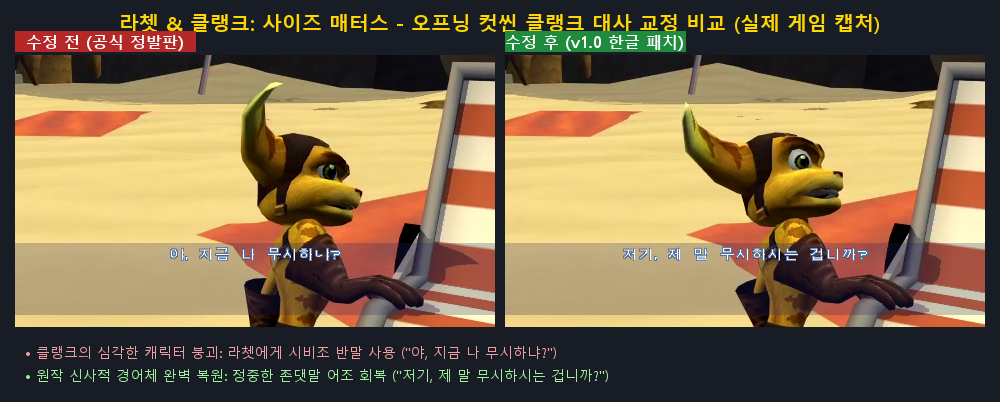
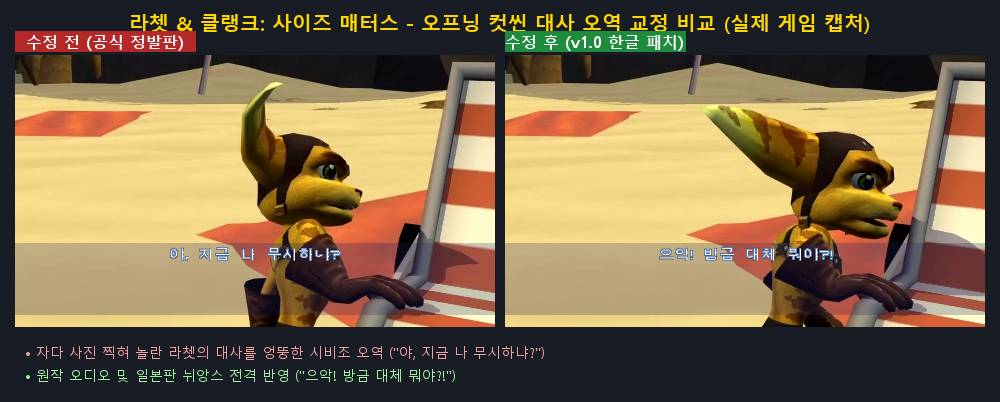
fix(script): reflect Japanese nuance for line 5005 and apply comprehensive cutscene dialogue fixes

Changed region(s): [[0.62, 0.2388, 0.992, 0.8358], [0.124, 0.0299, 0.899, 0.0896], [0.031, 0.8657, 0.62, 0.9552]]

diff --git a/scripts/update_translation_patches.py b/scripts/update_translation_patches.py
@@ -11,8 +11,8 @@ NEW_PATCHES = [
         "file": "localdat",
         "id": 5005,
         "original": "야, 지금 나 무시하냐?",
-        "patched": "저기, 제 말 무시하시는 겁니까?",
-        "reason": "클랭크 신사적 경어체 복원 (라쳇에게 시비조 반말 -> 정중한 존댓말)",
+        "patched": "으악! 방금 대체 뭐야?!",
+        "reason": "화자 오해 및 오역 교정 (라쳇이 자다 사진 찍혀 놀라는 장면 'うわっ！ なんだよ いまの！？' / 'What'd ya do that for?!' 반영)",
         "category": "tier3_dialogue_voice"
     },
     {
@@ -59,7 +59,7 @@ NEW_PATCHES = [
         "file": "localdat",
         "id": 5080,
         "original": "좋도록 해. 늙어 죽기 전까진 끝내라구!",
-        "patched": "마음대로 해. 늙어 죽기 전엔 끝내라구!",
+        "patched": "좋을 대로 해. 늙어 죽기 전까진 끝내라구!",
         "reason": "'Be my guest' 오역 '좋도록 해' 교정",
         "category": "tier3_dialogue_voice"
     },
@@ -102,6 +102,14 @@ NEW_PATCHES = [
         "patched": "Faux-Family.com? 뭔가 수상하지 않나요?",
         "reason": "클랭크 존댓말 회복",
         "category": "tier3_dialogue_voice"
+    },
+    {
+        "file": "localdat",
+        "id": 5123,
+        "original": "자, 이것도 받아. 스키드 맥마라라는 녀석에게 이겨서 받은 거야. 너무 미끄러워서 나는 못 쓰겠어.",
+        "patched": "자, 이것도 받아. 스키드 맥막스라는 녀석에게 이겨서 받은 거야. 너무 미끄러워서 나는 못 쓰겠어.",
+        "reason": "'스키드 맥마라' -> '스키드 맥막스(Skidd McMarx)' 고유 캐릭터명 오류 교정",
+        "category": "tier3_dialogue_typo"
     },
     {
         "file": "localdat",
@@ -179,8 +187,8 @@ NEW_PATCHES = [
         "file": "localdat",
         "id": 5175,
         "original": "아니에요. 감사합니다.",
-        "patched": "아뇨, 사양하겠습니다.",
-        "reason": "제안 거절 'No thanks' 오역 교정",
+        "patched": "좋습니다, 감사히 받겠습니다.",
+        "reason": "수락 표현 'Don't mind if I do!' (일어: いいっすよ。 いただくっす。)의 거절 반대 오역 교정",
         "category": "tier3_dialogue_voice"
     },
     {
@@ -249,6 +257,22 @@ NEW_PATCHES = [
     },
     {
         "file": "localdat",
+        "id": 5251,
+        "original": "오토가 한 가지를 간과했군.\n네가 없으면 나도 힘을 못 쓴다는 사실을.",
+        "patched": "오토가 한 가지를 간과했군.\n저 가짜들은 등 뒤에 클랭크가 없잖아!",
+        "reason": "게임의 핵심 파트너십 테마 복원 (클론들은 등 뒤에 클랭크가 없다는 라쳇의 명대사 복원)",
+        "category": "tier3_dialogue_voice"
+    },
+    {
+        "file": "localdat",
+        "id": 5252,
+        "original": "사실이지!",
+        "patched": "바로 그겁니다!",
+        "reason": "클랭크의 맞장구 대사 ('Indeed they don't!' / 'その とおりっす！') 복원",
+        "category": "tier3_dialogue_voice"
+    },
+    {
+        "file": "localdat",
         "id": 5265,
         "original": "쿼크의 진짜 부모님은 따로 계셨어. 스크런치 말로는 테크노마이트의 고장난 장비 때문에 돌아가셨대.",
         "patched": "쿼크의 진짜 부모님은 따로 계셨어. 스크런치 말로는 테크노마이트의 고장 난 장비 때문에 돌아가셨대.",
@@ -257,11 +281,35 @@ NEW_PATCHES = [
     },
     {
         "file": "localdat",
+        "id": 5276,
+        "original": "그건 좋은 생각이 아닌 것 같다, 쿼크. 이리 와서 우리랑 얘기를 하면 좀 진정될 거야.",
+        "patched": "그동안 그 결핍된 애정 문제를 우리한테 화풀이한 거였군.",
+        "reason": "원작의 쿼크 심리 문제 디스 복원 (And all this time you took your unresolved childhood issues out on us)",
+        "category": "tier3_dialogue_voice"
+    },
+    {
+        "file": "localdat",
+        "id": 5277,
+        "original": "그래, 쿼크. 다시 한번 생각해 봐. 오토 말이 맞아. 그 기계가 어떤 효과를 가져올지 모르잖아.",
+        "patched": "실은 그저 지능이 모자랐던 것뿐일지도 모르지만요!",
+        "reason": "클랭크의 쿼크 지능 디스 펀치라인 복원 (일어: 실은 그냥 머리가 나빴던 것뿐일지도 모릅니다)",
+        "category": "tier3_dialogue_voice"
+    },
+    {
+        "file": "localdat",
         "id": 5283,
         "original": "잘 됐네. 이제 가도 되겠지? 한시간 이내에 <COL:02>포키타루<COL:01>로 오라는 메시지를 받았거든.",
         "patched": "잘 됐네. 이제 가도 되겠지? 한 시간 이내에 <COL:02>포키타루<COL:01>로 오라는 메시지를 받았거든.",
         "reason": "'한시간' -> '한 시간' 띄어쓰기 교정",
         "category": "tier3_dialogue_typo"
+    },
+    {
+        "file": "localdat",
+        "id": 5293,
+        "original": "덩치는 작아도 자존심은 대단하군.",
+        "patched": "몸집은 작아졌어도 허풍 스케일 하나는 여전히 거대하네, 하하하!",
+        "reason": "엔딩 쿼크의 허풍에 대한 라쳇의 핀잔 유머 복원",
+        "category": "tier3_dialogue_voice"
     },
 
     # ---------------- In-game missions, developer extras, weapons, system strings ----------------

diff --git a/scripts/generate_comparison_images.py b/scripts/generate_comparison_images.py
@@ -9,7 +9,7 @@ QA_DIR = BASE / "qa"
 
 # Copy verified real captures to img dir
 shutil.copy2(QA_DIR / "real_original_main_menu.png", IMG_DIR / "original_main_menu.png")
-shutil.copy2(QA_DIR / "scratch_menu_patched.png", IMG_DIR / "patched_main_menu.png")
+shutil.copy2(QA_DIR / "scratch_menu_new.png", IMG_DIR / "patched_main_menu.png")
 shutil.copy2(QA_DIR / "real_original_clank_dialogue.png", IMG_DIR / "original_cutscene_clank.png")
 shutil.copy2(QA_DIR / "real_patched_clank_dialogue.png", IMG_DIR / "patched_cutscene_clank.png")
 
@@ -73,7 +73,7 @@ def create_clank_dialogue_comparison():
     draw = ImageDraw.Draw(canvas)
     
     # Title Header
-    title = "라쳇 & 클랭크: 사이즈 매터스 - 오프닝 컷씬 클랭크 대사 교정 비교 (실제 게임 캡처)"
+    title = "라쳇 & 클랭크: 사이즈 매터스 - 오프닝 컷씬 대사 오역 교정 비교 (실제 게임 캡처)"
     draw.text((canvas_w // 2, 22), title, font=FONT_TITLE, fill=(255, 215, 0), anchor="mm")
     
     # Left column (Original)
@@ -90,8 +90,8 @@ def create_clank_dialogue_comparison():
     draw.text((x_right + 90, y_top - 14), "수정 후 (v1.0 한글 패치)", font=FONT_BOLD, fill=(255, 255, 255), anchor="mm")
     
     # Explanations
-    exp_orig = "• 클랭크의 심각한 캐릭터 붕괴: 라쳇에게 시비조 반말 사용 (\"야, 지금 나 무시하냐?\")"
-    exp_patch = "• 원작 신사적 경어체 완벽 복원: 정중한 존댓말 어조 회복 (\"저기, 제 말 무시하시는 겁니까?\")"
+    exp_orig = "• 자다 사진 찍혀 놀란 라쳇의 대사를 엉뚱한 시비조 오역 (\"야, 지금 나 무시하냐?\")"
+    exp_patch = "• 원작 오디오 및 일본판 뉘앙스 전격 반영 (\"으악! 방금 대체 뭐야?!\")"
     draw.text((x_left + 10, y_top + h + 15), exp_orig, font=FONT_SUB, fill=(240, 160, 160))
     draw.text((x_left + 10, y_top + h + 38), exp_patch, font=FONT_SUB, fill=(160, 240, 160))
     
